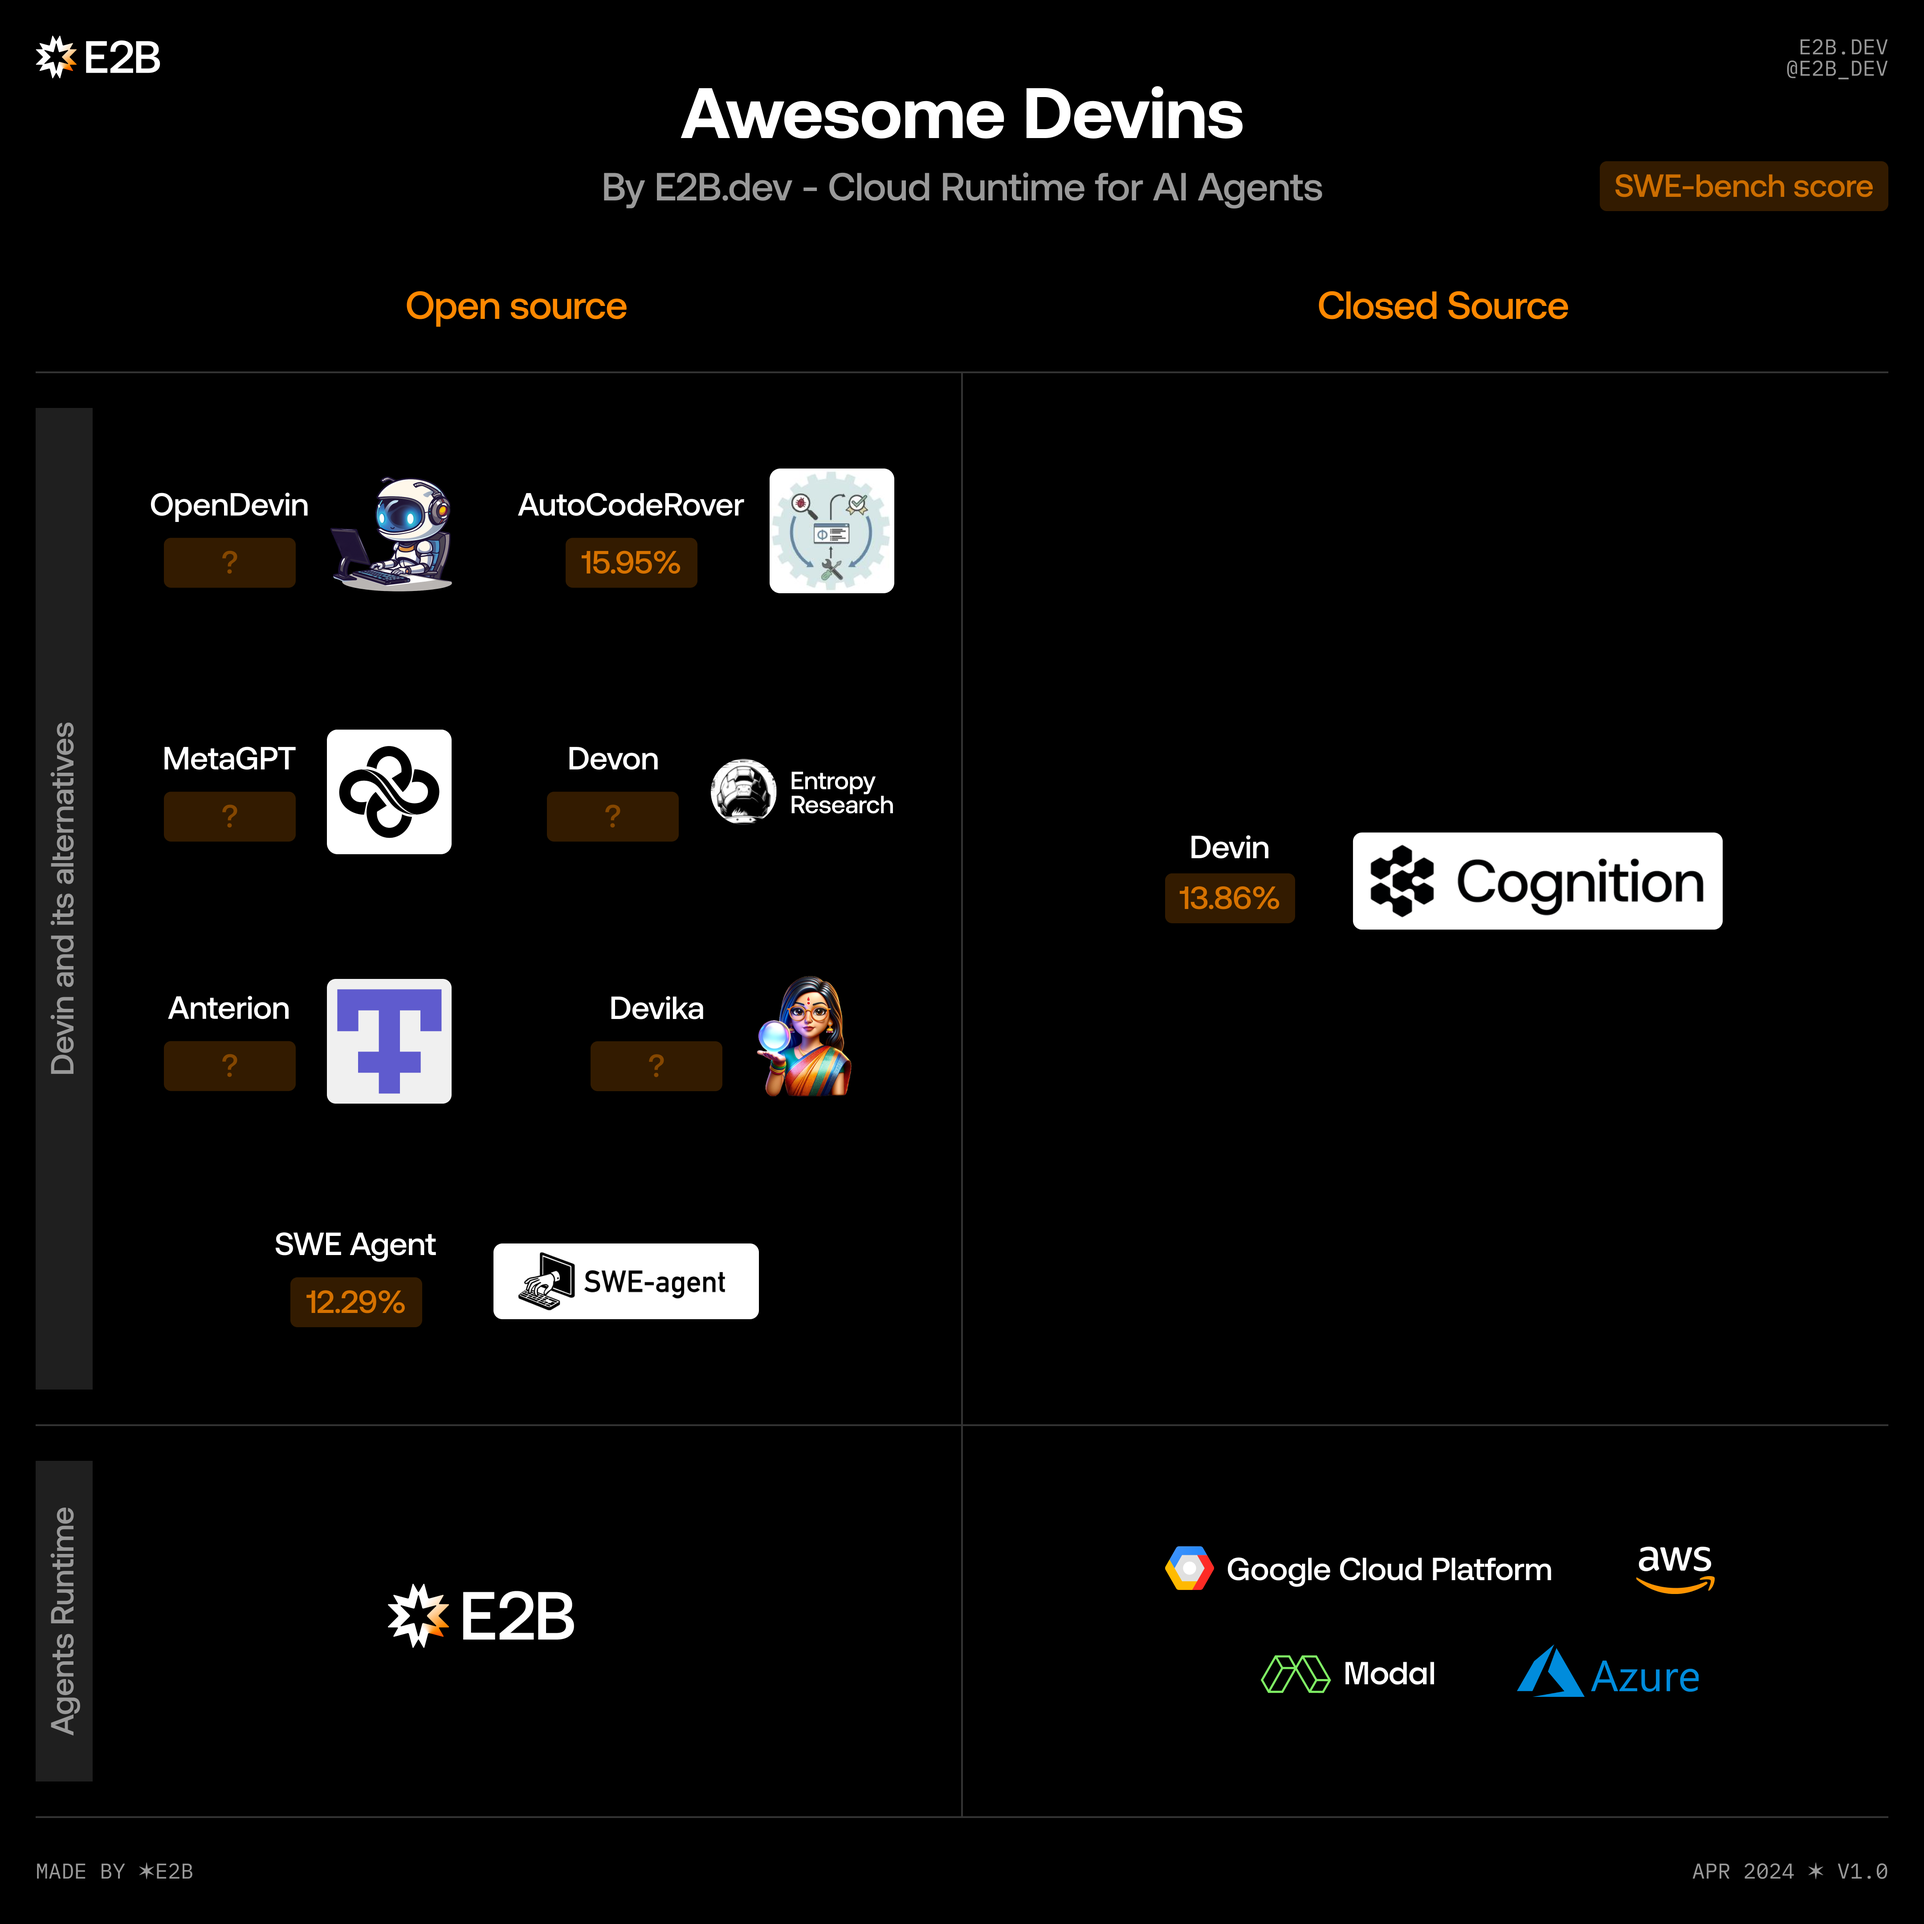
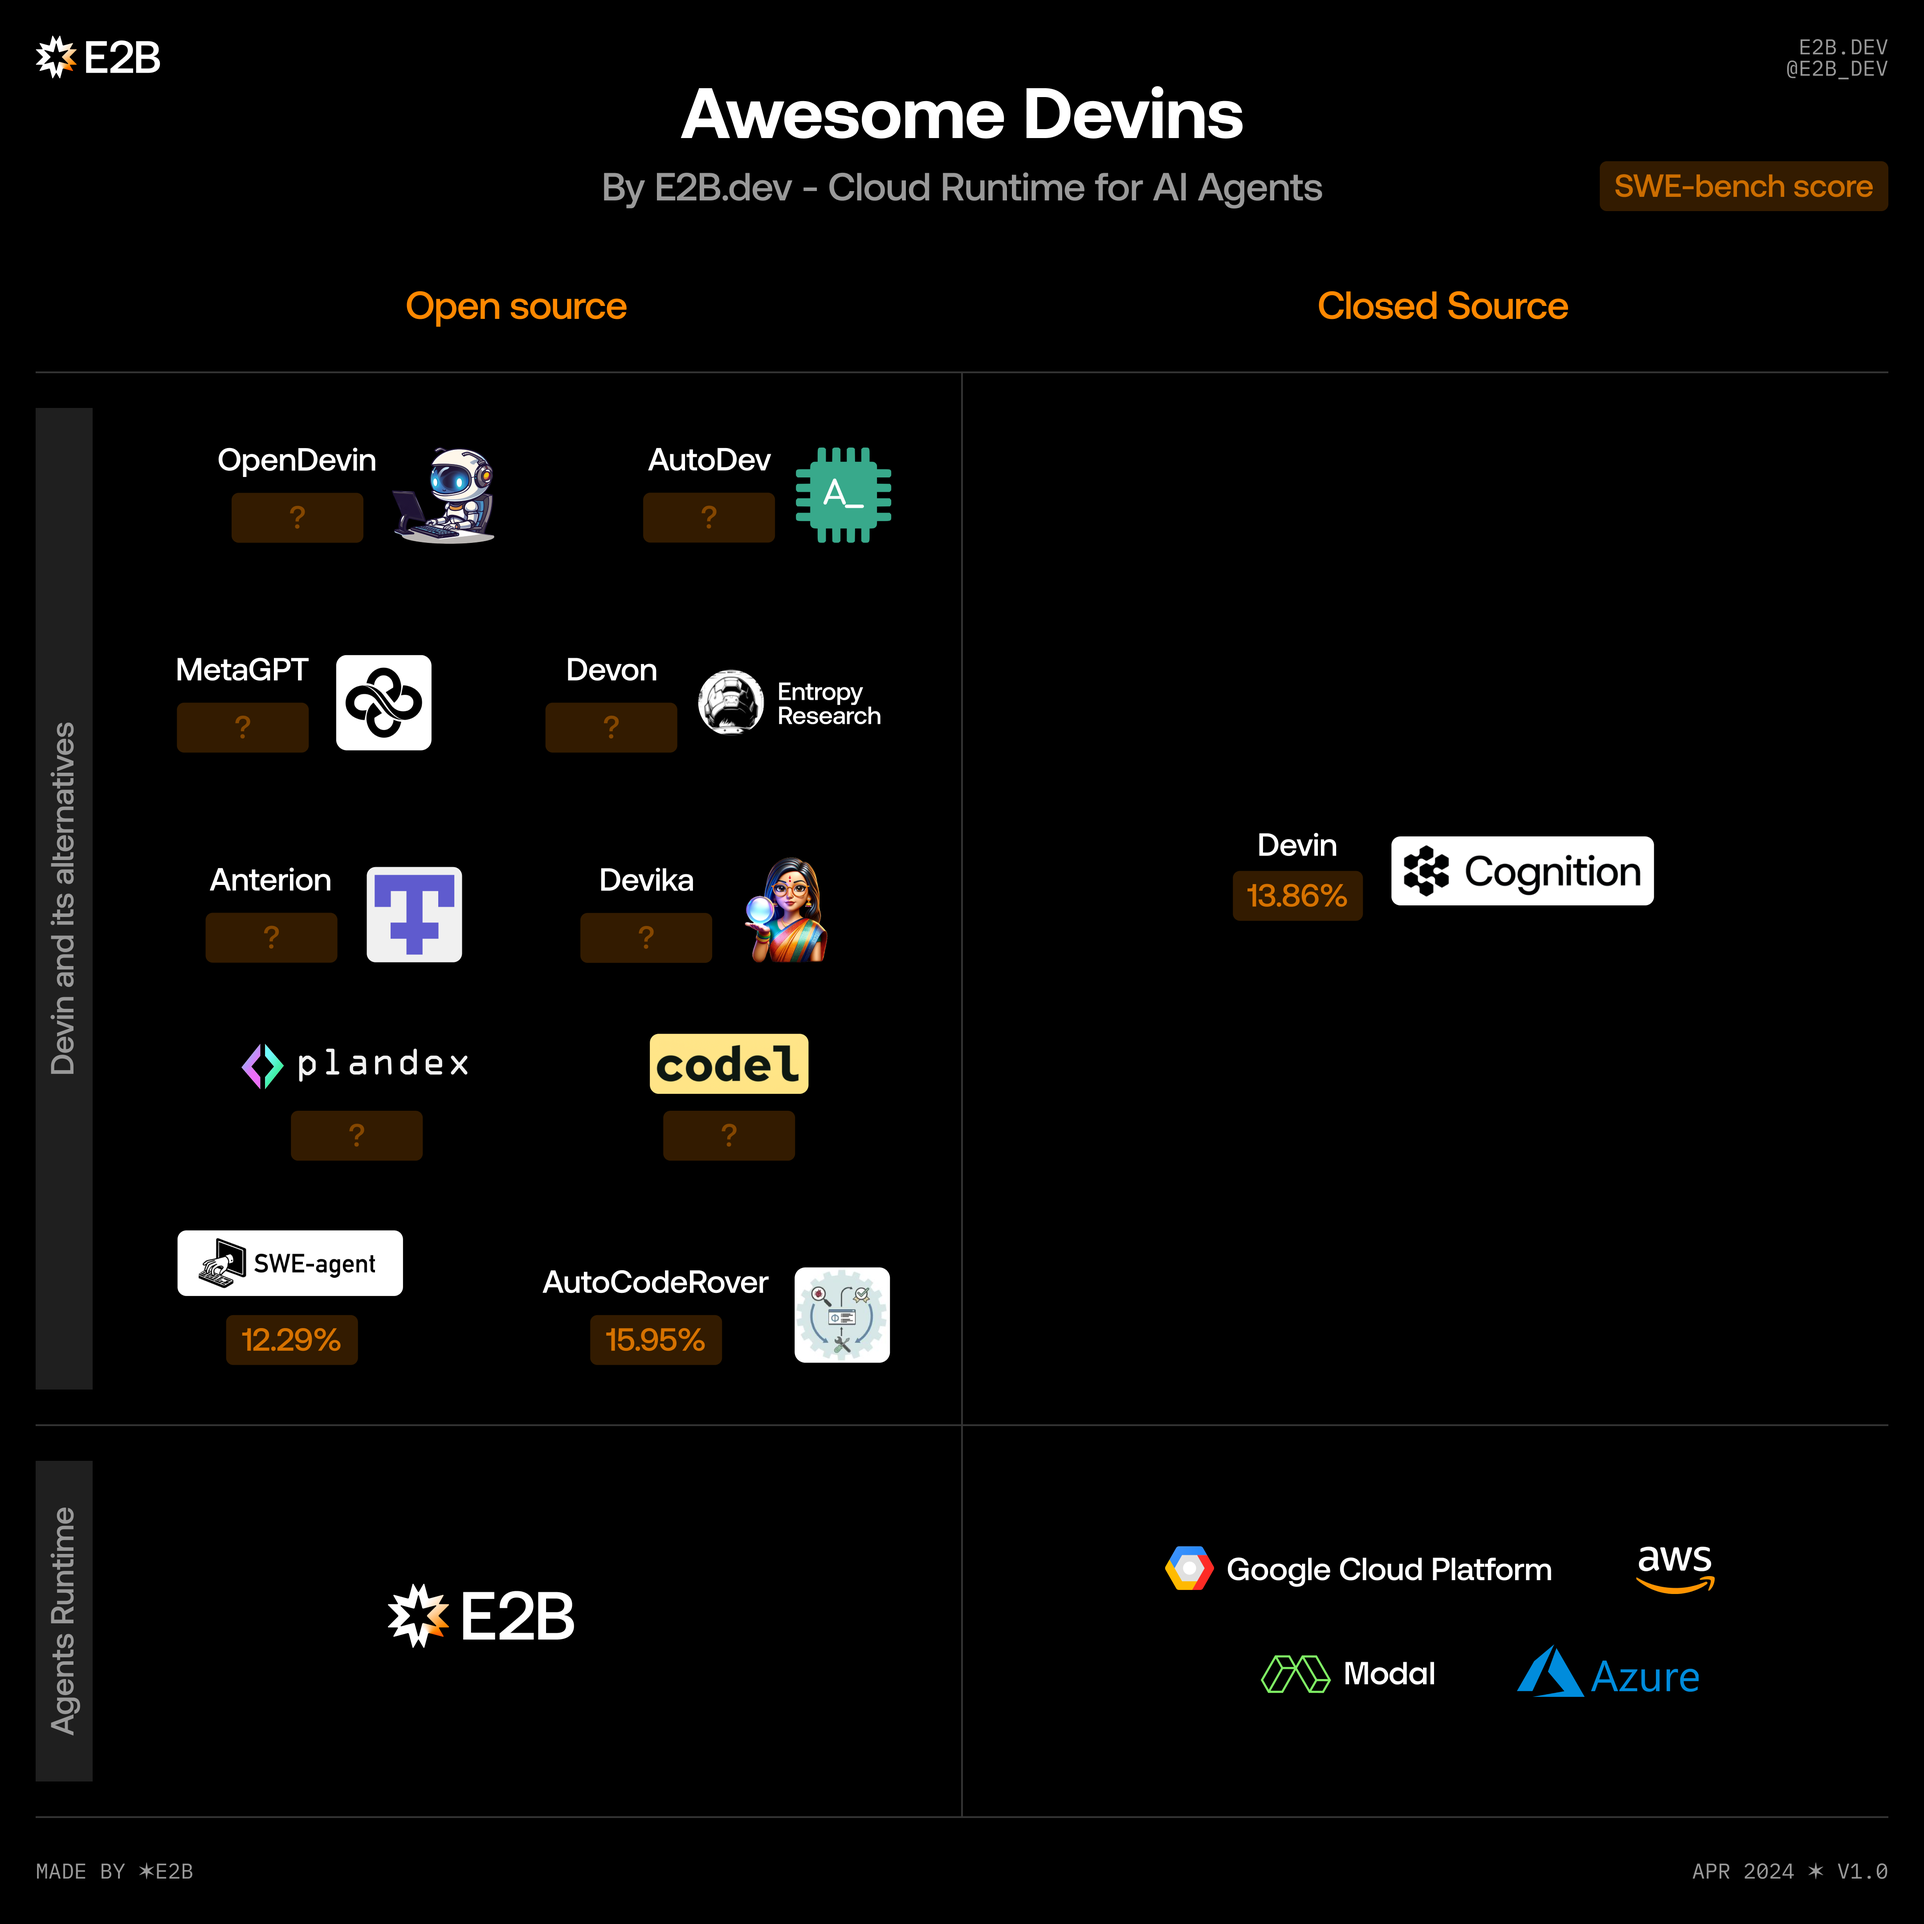
Add two more agents

Changed region(s): [[0.0625, 0.2188, 0.4688, 0.7188], [0.25, 0.3438, 0.4688, 0.7188], [0.5938, 0.4062, 0.9062, 0.5]]

diff --git a/README.md b/README.md
@@ -119,6 +119,52 @@ Coding, general purpose
 
 </details>
 
+## [Codel](https://github.com/semanser/codel?tab=readme-ov-file)
+Fully autonomous AI agent
+
+<details>
+
+![Image](https://github.com/semanser/codel/raw/main/.github/demo.png)
+### Category
+Coding, general purpose
+
+### Description
+- Fully autonomous AI Agent that can perform complicated tasks and projects using terminal, browser, and editor
+- Everything is running in a sandboxed Docker environment.
+- It can fetch latest information from the web (tutorials, docs, etc.) if needed.
+- Has a built-in text editor for previewing all files
+- All the history commands and outputs are saved in the PostgreSQL database.
+- The simplest way to start Codel is to use a pre-built Docker image
+
+
+### Links
+- [GitHub](https://github.com/semanser/codel?tab=readme-ov-file)
+- [Discord](https://discord.com/invite/uMaGSHNjzc)
+
+</details>
+
+## [Devon](https://github.com/entropy-research/Devon)
+Open-source Devin alternative
+
+<details>
+
+![Image](https://avatars.githubusercontent.com/u/163390653?s=200&v=4)
+
+### Category
+Coding, general purpose
+
+### Description
+- Open-source alternative to Devin by Entropy research
+- GitHub stars: 150
+- Devon is an open-source SWE Agent that aims to help software engineers with the development and maintenance of software.
+- It doesn’t provide an extensive description, but as features it mentions reliable multi file editing or use of tools such as git
+- Devon is built with Python
+- 
+### Links
+- [GitHub](https://github.com/entropy-research/Devon)
+
+</details>
+
 ## [Devika](https://github.com/stitionai/devika)
 Agentic AI Software Engineer
 
@@ -210,8 +256,30 @@ The key technologies used in the project include FastAPI, uvicorn, LiteLLM, Dock
 
 ### Links
 - [GitHub](https://github.com/OpenDevin/OpenDevin)
+- [Demo video](https://www.youtube.com/watch?v=g6-DpvBlTWY&ab_channel=GitWit)
 - [Discord](https://discord.com/invite/mBuDGRzzES)
 - [Slack](https://opendevin.slack.com/join/shared_invite/zt-2etftj1dd-X1fDL2PYIVpsmJZkqEYANw#/shared-invite/email)
+
+</details>
+
+## [Plandex](https://github.com/plandex-ai/plandex)
+Terminal-based AI coding engine for complex tasks
+
+<details>
+
+![Image](https://github.com/plandex-ai/plandex/raw/main/images/plandex-logo-dark.png)
+
+### Category
+Coding, general purpose
+
+### Description
+- Plandex uses long-running agents to complete tasks that span multiple files and require many steps.
+- It breaks up large tasks into smaller subtasks, then implements each one, continuing until it finishes the job.
+- It helps you churn through your backlog, work with unfamiliar technologies, get unstuck, and spend less time on the boring stuff.
+
+
+### Links
+- [GitHub](https://github.com/plandex-ai/plandex)
 
 </details>
 
@@ -221,6 +289,7 @@ Open-source Devin alternative
 <details>
 
 ![Image](https://github.com/princeton-nlp/SWE-agent/raw/main/assets/swe-agent-banner.png)
+
 ### Category
 Coding, general purpose
 
@@ -248,9 +317,10 @@ Coding, general purpose
 - [Demo](https://swe-agent.com/demo)
 - [Discord](https://discord.com/invite/AVEFbBn2rH)
 
+
 </details>
 
-
+<br>
 
 
 # Closed-source "Devins"
